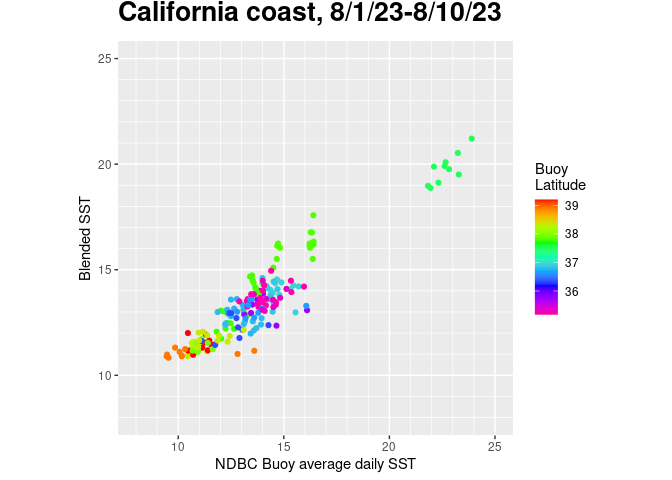
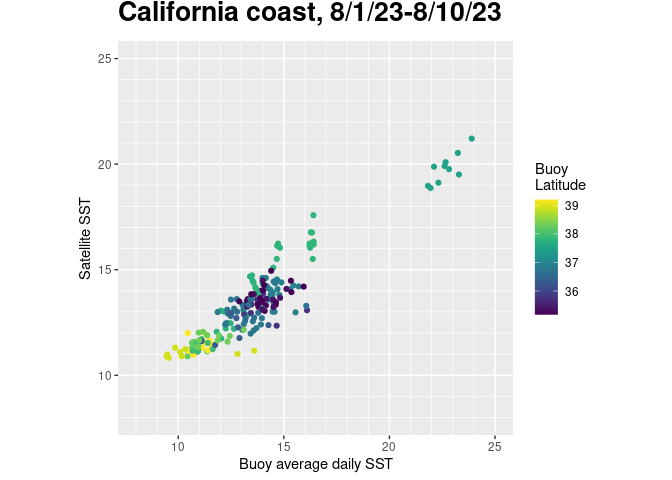
changed color scales and edited figure labels

diff --git a/matchup-satellite-buoy-data/R/matchup_satellite_buoy_data.md b/matchup-satellite-buoy-data/R/matchup_satellite_buoy_data.md
@@ -55,7 +55,7 @@ pkgTest <- function(x)
 list.of.packages <- c( "ncdf4", "rerddap", "plotdap", "httr",
                        "lubridate", "gridGraphics",  "mapdata",
                        "ggplot2", "RColorBrewer", "grid", "PBSmapping", 
-                       "rerddapXtracto","dplyr")
+                       "rerddapXtracto","dplyr","viridis","cmocean")
 
 # create list of installed packages
 pkges = installed.packages()[,"Package"]
@@ -102,7 +102,7 @@ n.sta <- length(unique.sta)
 n.sta
 ```
 
-    ## [1] 23
+    ## [1] 24
 
 **Plot the buoy data for the first 10 stations in buoy.df**
 
@@ -170,7 +170,7 @@ dataInfo
     ##  Base URL: https://coastwatch.pfeg.noaa.gov/erddap 
     ##  Dataset Type: griddap 
     ##  Dimensions (range):  
-    ##      time: (2019-07-22T12:00:00Z, 2023-09-11T12:00:00Z) 
+    ##      time: (2019-07-22T12:00:00Z, 2023-09-13T12:00:00Z) 
     ##      latitude: (-89.975, 89.975) 
     ##      longitude: (-179.975, 179.975) 
     ##  Variables:  
@@ -235,13 +235,14 @@ main="California coast, 8/1/23-8/10/23"
 p <- ggplot(goodbuoy, aes(temp.day, sst,color=lat)) + 
      coord_fixed(xlim=c(8,25),ylim=c(8,25)) 
 p + geom_point() + 
-  ylab('Blended SST')  + 
-  xlab('NDBC Buoy average daily SST') +
+  ylab('Satellite SST')  + 
+  xlab('Buoy average daily SST') +
   scale_x_continuous(minor_breaks = seq(8, 25)) + 
   scale_y_continuous(minor_breaks = seq(8, 25)) + 
   #geom_abline(a=fit[1],b=fit[2]) +
   #annotation_custom(my_grob) + 
-  scale_color_gradientn(colours = rev(rainbow(9)), name="Buoy\nLatitude") +
+  #scale_color_gradientn(colours = "viridis", name="Buoy\nLatitude") +
+  scale_color_viridis(discrete = FALSE, name="Buoy\nLatitude") +
   labs(title=main) + theme(plot.title = element_text(size=20, face="bold", vjust=2)) 
 ```
 
@@ -261,18 +262,18 @@ summary(lmHeight)
     ## 
     ## Residuals:
     ##      Min       1Q   Median       3Q      Max 
-    ## -2.21964 -0.48245  0.02077  0.41449  2.19809 
+    ## -2.21936 -0.47676  0.02142  0.40927  2.19949 
     ## 
     ## Coefficients:
     ##             Estimate Std. Error t value Pr(>|t|)    
-    ## (Intercept)  3.65434    0.27805   13.14   <2e-16 ***
-    ## temp.day     0.71510    0.01997   35.81   <2e-16 ***
+    ## (Intercept)  3.65951    0.27549   13.28   <2e-16 ***
+    ## temp.day     0.71469    0.01976   36.17   <2e-16 ***
     ## ---
     ## Signif. codes:  0 '***' 0.001 '**' 0.01 '*' 0.05 '.' 0.1 ' ' 1
     ## 
-    ## Residual standard error: 0.739 on 186 degrees of freedom
-    ## Multiple R-squared:  0.8733, Adjusted R-squared:  0.8726 
-    ## F-statistic:  1282 on 1 and 186 DF,  p-value: < 2.2e-16
+    ## Residual standard error: 0.7322 on 195 degrees of freedom
+    ## Multiple R-squared:  0.8703, Adjusted R-squared:  0.8696 
+    ## F-statistic:  1309 on 1 and 195 DF,  p-value: < 2.2e-16
 
 ## Create a map of SST and overlay the buoy data
 
@@ -316,10 +317,10 @@ myplot<-ggplot(data = sstFrame, aes(x = x, y = y, fill = sst)) +
   geom_polygon(data = coast, aes(x=long, y = lat, group = group), fill = "grey80") +
   theme_bw(base_size = 15) + ylab("Latitude") + xlab("Longitude") +
   coord_fixed(1.3,xlim = xlim, ylim = ylim) +
-  scale_fill_gradientn(colours = rev(rainbow(12)),limits=c(10,25),na.value = NA) +
-  ggtitle(paste("Blended SST and NDBC buoy temperature \n", unique(as.Date(SST$time)))) +
+  scale_fill_cmocean(name = 'thermal',limits=c(10,25),na.value = NA) +
+  ggtitle(paste("Satellite SST and buoy temperature (circles) \n", unique(as.Date(SST$time)))) +
   geom_point(data=buoy2, aes(x=lon,y=lat,color=temp.day),size=3,shape=21,color="black") + 
-  scale_color_gradientn(colours = rev(rainbow(12)),limits=c(10,25),na.value ="grey20") 
+  scale_color_cmocean(name = 'thermal',limits=c(10,25),na.value ="grey20") 
   
 myplot
 ```
